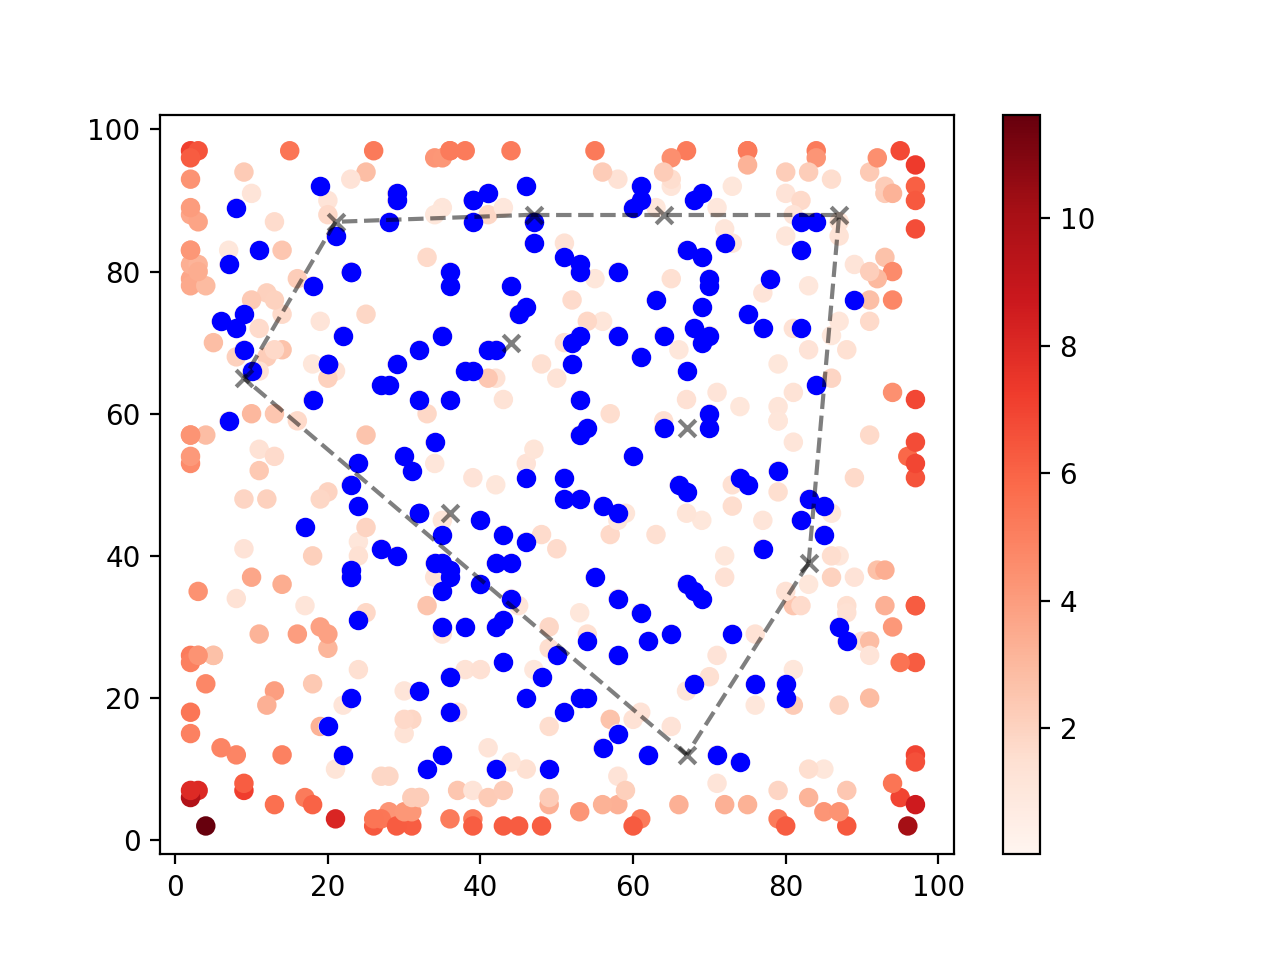
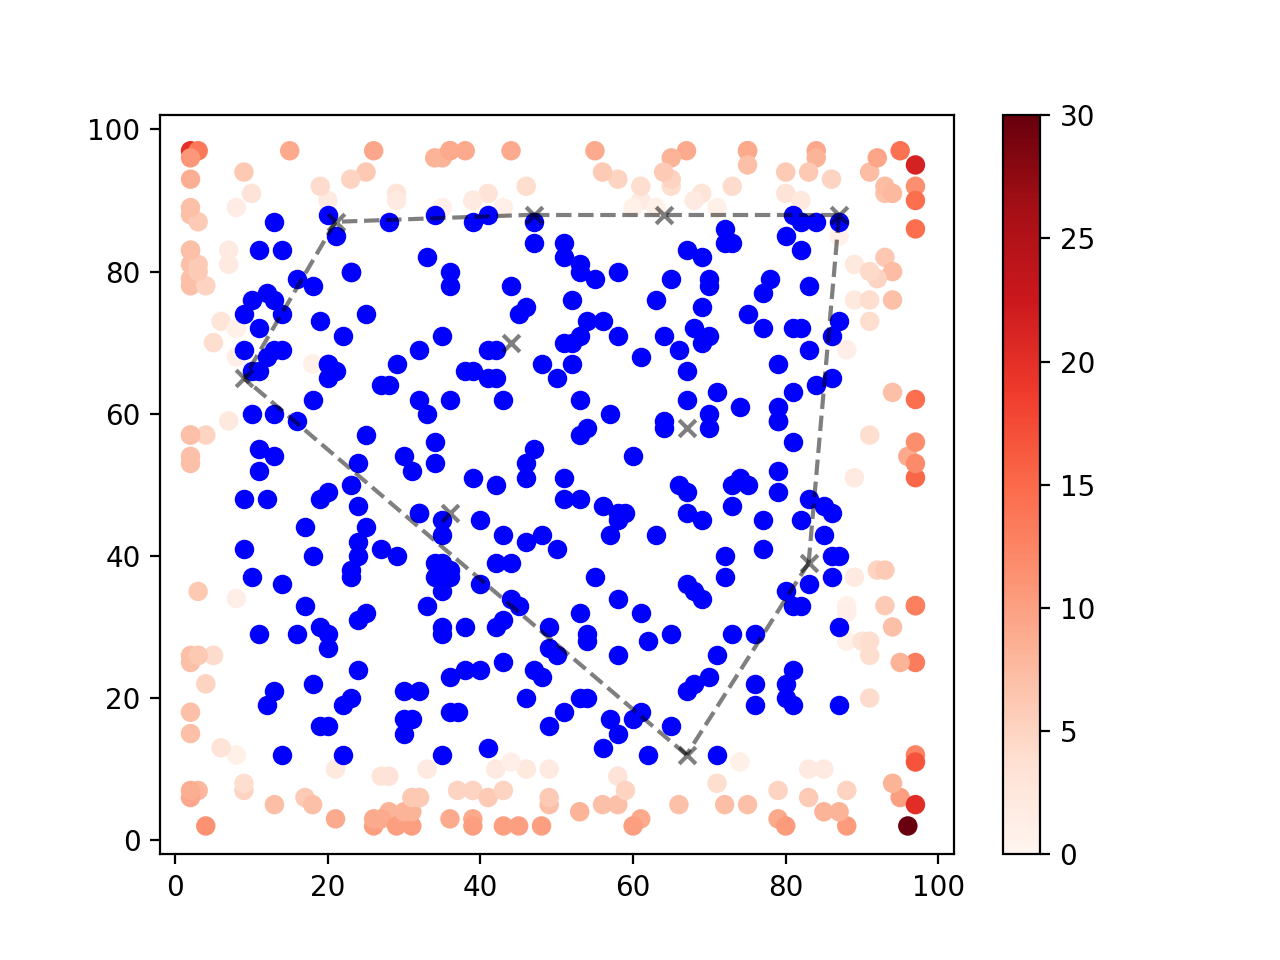
Tidying. (#2)
* Make runs deterministic.

* Separate scripts for implicit and explicit.

* Fix dataset bounds and make targets lie in negative 1 positive 1 range.

* Tidy up train protocol.

* Nit.

* Remove bad init.

diff --git a/ibc/dataset.py b/ibc/dataset.py
@@ -3,7 +3,6 @@ from typing import Optional, Tuple
 
 import numpy as np
 import torch
-import torchvision
 from torch.utils.data import Dataset
 from torchvision.transforms import ToTensor
 
@@ -38,7 +37,6 @@ class CoordinateRegression(Dataset):
         self.pixel_size = config.pixel_size
         self.pixel_color = config.pixel_color
         self.seed = config.seed
-        self.transform = None
 
         self.reset()
 
@@ -47,6 +45,7 @@ class CoordinateRegression(Dataset):
             np.random.seed(self.seed)
 
         self._coordinates = self._sample_coordinates(self.dataset_size)
+        self._coordinates_scaled = self._scale_coordinates(self._coordinates)
 
     def exclude(self, coordinates: np.ndarray) -> None:
         """Exclude the given coordinates, if present, from the previously sampled ones.
@@ -59,41 +58,17 @@ class CoordinateRegression(Dataset):
         while mask.sum() > 0:
             self._coordinates[mask] = self._sample_coordinates(mask.sum())
             mask = (self.coordinates[:, None] == coordinates).all(-1).any(1)
+        self._coordinates_scaled = self._scale_coordinates(self._coordinates)
         print(f"Resampled {num_matches} data points.")
 
-    def get_target_statistics(self) -> Tuple[np.ndarray, np.ndarray]:
-        return self.coordinates.mean(axis=0), self.coordinates.std(axis=0)
-
-    def get_target_bounds(self, percent: float = 0.05) -> np.ndarray:
-        """Return per-dimension target min/max plus or minus a small buffer.
-
-        This is described in Section B of the supplemental.
-        """
-        # Compute per-dimension min and max.
-        per_dim_min = self.coordinates.min(axis=0)
-        per_dim_max = self.coordinates.max(axis=0)
-
-        # Add a small buffer, typically 0.05 * (max - min).
-        buffer = percent * (per_dim_max - per_dim_min)
-        bounds = np.vstack([per_dim_min - buffer, per_dim_max + buffer])
-
-        # Clip to allowed min/max.
-        slack = self.pixel_size // 2
-        bounds[:, 0] = np.clip(
-            bounds[:, 0], a_min=slack, a_max=self.resolution[0] - 1 - slack
+    def get_target_bounds(self) -> np.ndarray:
+        """Return per-dimension target min/max."""
+        return np.vstack(
+            [
+                self.coordinates_scaled.min(axis=0),
+                self.coordinates_scaled.max(axis=0),
+            ]
         )
-        bounds[:, 1] = np.clip(
-            bounds[:, 1], a_min=slack, a_max=self.resolution[1] - 1 - slack
-        )
-
-        # Standardize bounds.
-        if self.transform is not None:
-            bounds = (bounds - self.transform[0]) / self.transform[1]
-
-        return bounds
-
-    def set_transform(self, means: np.ndarray, std_devs: np.ndarray) -> None:
-        self.transform = (means, std_devs)
 
     def _sample_coordinates(self, size: int) -> np.ndarray:
         """Helper method for generating pixel coordinates."""
@@ -108,6 +83,15 @@ class CoordinateRegression(Dataset):
 
         return np.vstack([u, v]).astype(np.int16).T
 
+    def _scale_coordinates(self, coords: np.ndarray) -> np.ndarray:
+        """Helper method for scaling coordinates to the [-1, 1] range."""
+        coords_scaled = np.array(coords, dtype=np.float32)
+        coords_scaled[:, 0] /= self.resolution[0] - 1
+        coords_scaled[:, 1] /= self.resolution[1] - 1
+        coords_scaled *= 2
+        coords_scaled -= 1
+        return coords_scaled
+
     @property
     def image_shape(self) -> Tuple[int, int, int]:
         return self.resolution + (3,)
@@ -116,11 +100,16 @@ class CoordinateRegression(Dataset):
     def coordinates(self) -> np.ndarray:
         return self._coordinates
 
+    @property
+    def coordinates_scaled(self) -> np.ndarray:
+        return self._coordinates_scaled
+
     def __len__(self) -> int:
         return self.dataset_size
 
     def __getitem__(self, index: int) -> Tuple[torch.Tensor, torch.Tensor]:
         uv = self._coordinates[index]
+        uv_scaled = self._coordinates_scaled[index]
 
         image = np.full(self.image_shape, fill_value=255, dtype=np.uint8)
         image[
@@ -129,10 +118,7 @@ class CoordinateRegression(Dataset):
         ] = self.pixel_color
 
         image = ToTensor()(image)
-        target = torch.as_tensor(uv, dtype=torch.float32)
-
-        if self.transform is not None:
-            target = ((target - self.transform[0]) / self.transform[1]).float()
+        target = torch.as_tensor(uv_scaled, dtype=torch.float32)
 
         return image, target
 
@@ -140,7 +126,7 @@ class CoordinateRegression(Dataset):
 if __name__ == "__main__":
     import matplotlib.pyplot as plt
 
-    dataset = CoordinateRegression(DatasetConfig(dataset_size=30))
+    dataset = CoordinateRegression(DatasetConfig(dataset_size=100))
 
     # Visualize one instance.
     image, target = dataset[np.random.randint(len(dataset))]

diff --git a/plot.py b/plot.py
@@ -5,6 +5,7 @@ import pathlib
 from typing import Dict, Tuple
 
 import dcargs
+import matplotlib
 import matplotlib.pyplot as plt
 import numpy as np
 import torch
@@ -19,29 +20,46 @@ from train import TrainConfig, make_dataloaders, make_train_state
 @dataclasses.dataclass
 class Args:
     experiment_name: str
-    plot_dir: str = "plots"
+    plot_dir: str = "assets"
     dpi: int = 200
+    threshold: float = 30
 
 
 def eval(
     train_state: TrainStateProtocol,
     dataloaders: Dict[str, torch.utils.data.DataLoader],
 ) -> Tuple[np.ndarray, np.ndarray, np.ndarray]:
-    errors = []
+    total_mse = 0.0
+    pixel_error = []
     for batch in tqdm(dataloaders["test"]):
         input, target = batch
         prediction = train_state.predict(input).cpu().numpy()
         target = target.cpu().numpy()
-        mean, std = dataloaders["train"].dataset.transform
-        prediction = prediction * std + mean
-        target = target * std + mean
-        err = np.linalg.norm(prediction - target, axis=1)
-        errors.append(err)
+
+        pred_unscaled = np.array(prediction)
+        pred_unscaled += 1
+        pred_unscaled /= 2
+        pred_unscaled[:, 0] *= dataloaders["test"].dataset.resolution[0]
+        pred_unscaled[:, 1] *= dataloaders["test"].dataset.resolution[1]
+
+        target_unscaled = np.array(target)
+        target_unscaled += 1
+        target_unscaled /= 2
+        target_unscaled[:, 0] *= dataloaders["test"].dataset.resolution[0]
+        target_unscaled[:, 1] *= dataloaders["test"].dataset.resolution[1]
+
+        diff = pred_unscaled - target_unscaled
+        pixel_error.append(np.linalg.norm(diff, axis=1))
+        total_mse += (diff ** 2).mean(axis=1).sum()
+
+    average_mse = total_mse / len(dataloaders["test"].dataset)
+    print(f"Test set MSE: {average_mse}")
+
+    pixel_error = np.concatenate(pixel_error)
     test_coords = dataloaders["test"].dataset.coordinates
     train_coords = dataloaders["train"].dataset.coordinates
-    errors = np.concatenate(errors)
-    print(f"Test set MSE: {np.square(errors).mean()}")
-    return train_coords, test_coords, errors
+
+    return train_coords, test_coords, pixel_error
 
 
 def plot(
@@ -51,7 +69,13 @@ def plot(
     resolution: Tuple[int, int],
     plot_path: pathlib.Path,
     dpi: int,
+    threshold: float,
 ) -> None:
+    # Threshold the errors so that all generated plot colors cover the same range.
+    errors[errors >= threshold] = threshold
+    colormap = plt.cm.Reds
+    normalize = matplotlib.colors.Normalize(vmin=0, vmax=threshold)
+
     plt.scatter(
         train_coords[:, 0],
         train_coords[:, 1],
@@ -64,7 +88,8 @@ def plot(
         test_coords[:, 0],
         test_coords[:, 1],
         c=errors,
-        cmap="Reds",
+        cmap=colormap,
+        norm=normalize,
         zorder=1,
     )
     plt.colorbar()
@@ -127,6 +152,7 @@ def main(args: Args):
         dataloaders["test"].dataset.resolution,
         plot_dir / f"{args.experiment_name}.png",
         args.dpi,
+        args.threshold,
     )
 
 

diff --git a/ibc/models.py b/ibc/models.py
@@ -55,18 +55,6 @@ class MLP(nn.Module):
 
         self.net = nn.Sequential(*layers)
 
-        # Weight initialization.
-        def weight_init(m: nn.Module) -> None:
-            if isinstance(m, nn.Linear):
-                nn.init.kaiming_normal_(
-                    m.weight,
-                    mode="fan_in",
-                    nonlinearity=config.activation_fn.name.lower(),
-                )
-                nn.init.constant_(m.bias, 0.0)
-
-        self.apply(weight_init)
-
     def forward(self, x: torch.Tensor) -> torch.Tensor:
         return self.net(x)
 
@@ -79,8 +67,8 @@ class ResidualBlock(nn.Module):
     ) -> None:
         super().__init__()
 
-        self.conv1 = nn.Conv2d(depth, depth, 3, padding=1)
-        self.conv2 = nn.Conv2d(depth, depth, 3, padding=1)
+        self.conv1 = nn.Conv2d(depth, depth, 3, padding=1, bias=True)
+        self.conv2 = nn.Conv2d(depth, depth, 3, padding=1, bias=True)
         self.activation = activation_fn.value()
 
     def forward(self, x: torch.Tensor) -> torch.Tensor:
@@ -113,25 +101,12 @@ class CNN(nn.Module):
                     nn.Conv2d(depth_in, depth_out, 3, padding=1),
                     nn.MaxPool2d(3, stride=2, padding=1),
                     ResidualBlock(depth_out, config.activation_fn),
-                    ResidualBlock(depth_out, config.activation_fn),
                 ]
             )
             depth_in = depth_out
 
         self.net = nn.Sequential(*layers)
         self.activation = config.activation_fn.value()
-
-        # Weight initialization.
-        def weight_init(m: nn.Module) -> None:
-            if isinstance(m, nn.Conv2d):
-                nn.init.kaiming_normal_(
-                    m.weight,
-                    mode="fan_in",
-                    nonlinearity=config.activation_fn.name.lower(),
-                )
-                nn.init.constant_(m.bias, 0.0)
-
-        self.apply(weight_init)
 
     def forward(self, x: torch.Tensor, activate: bool = False) -> torch.Tensor:
         out = self.net(x)

diff --git a/train.py b/train.py
@@ -27,12 +27,11 @@ class TrainConfig:
     coord_conv: bool = False
     dropout_prob: Optional[float] = None
     num_workers: int = 1
-    cudnn_deterministic: bool = False
-    cudnn_benchmark: bool = True
+    cudnn_deterministic: bool = True
+    cudnn_benchmark: bool = False
     log_every_n_steps: int = 10
     checkpoint_every_n_steps: int = 100
     eval_every_n_steps: int = 200
-    target_bounds_percent: float = 0.05
     policy_type: trainer.PolicyType = trainer.PolicyType.EXPLICIT
 
 
@@ -55,17 +54,12 @@ def make_dataloaders(
         **kwargs,
     )
 
-    # Compute train set target mean/std-dev.
-    train_target_mean, train_target_std = train_dataset.get_target_statistics()
-    train_dataset.set_transform(train_target_mean, train_target_std)
-
     # Test split.
     test_dataset_config = dataset.DatasetConfig(
         dataset_size=train_config.test_dataset_size,
         seed=train_config.seed,
     )
     test_dataset = dataset.CoordinateRegression(test_dataset_config)
-    test_dataset.set_transform(train_target_mean, train_target_std)
     test_dataset.exclude(train_dataset.coordinates)
     test_dataloader = torch.utils.data.DataLoader(
         test_dataset,
@@ -124,11 +118,7 @@ def make_train_state(
             device_type=train_config.device_type,
         )
     else:
-        # Compute bounds on target values in the training data.
-        target_bounds = train_dataloader.dataset.get_target_bounds(
-            train_config.target_bounds_percent
-        )
-
+        target_bounds = train_dataloader.dataset.get_target_bounds()
         stochastic_optim_config = optimizers.DerivativeFreeConfig(bounds=target_bounds)
 
         train_state = trainer.ImplicitTrainState.initialize(

diff --git a/ibc/trainer.py b/ibc/trainer.py
@@ -29,6 +29,9 @@ class TrainStateProtocol(Protocol):
     ) -> experiment.TensorboardLogData:
         """Performs a full evaluation of the model on one epoch."""
 
+    def predict(self, input: torch.Tensor) -> torch.Tensor:
+        """Performs a single inference step on a mini-batch of data."""
+
 
 @dataclasses.dataclass
 class ExplicitTrainState:

diff --git a/README.md b/README.md
@@ -14,11 +14,11 @@ pip install -r requirements.txt
 * [x] Implement the coordinate regression task.
 * [x] Implement an explicit policy.
 * [x] Generate plot like in Figure 4.
-* [ ] Implement an implicit EBM model.
+* [x] Implement an implicit EBM model.
     * [x] Derivative-free sampler.
     * [x] `TrainState` for EBM training.
     * [x] Model class for ingesting both x and y.
-    * [ ] Langevin dynamics.
+* [ ] Implement Langevin dynamics.
 
 ## Results
 
